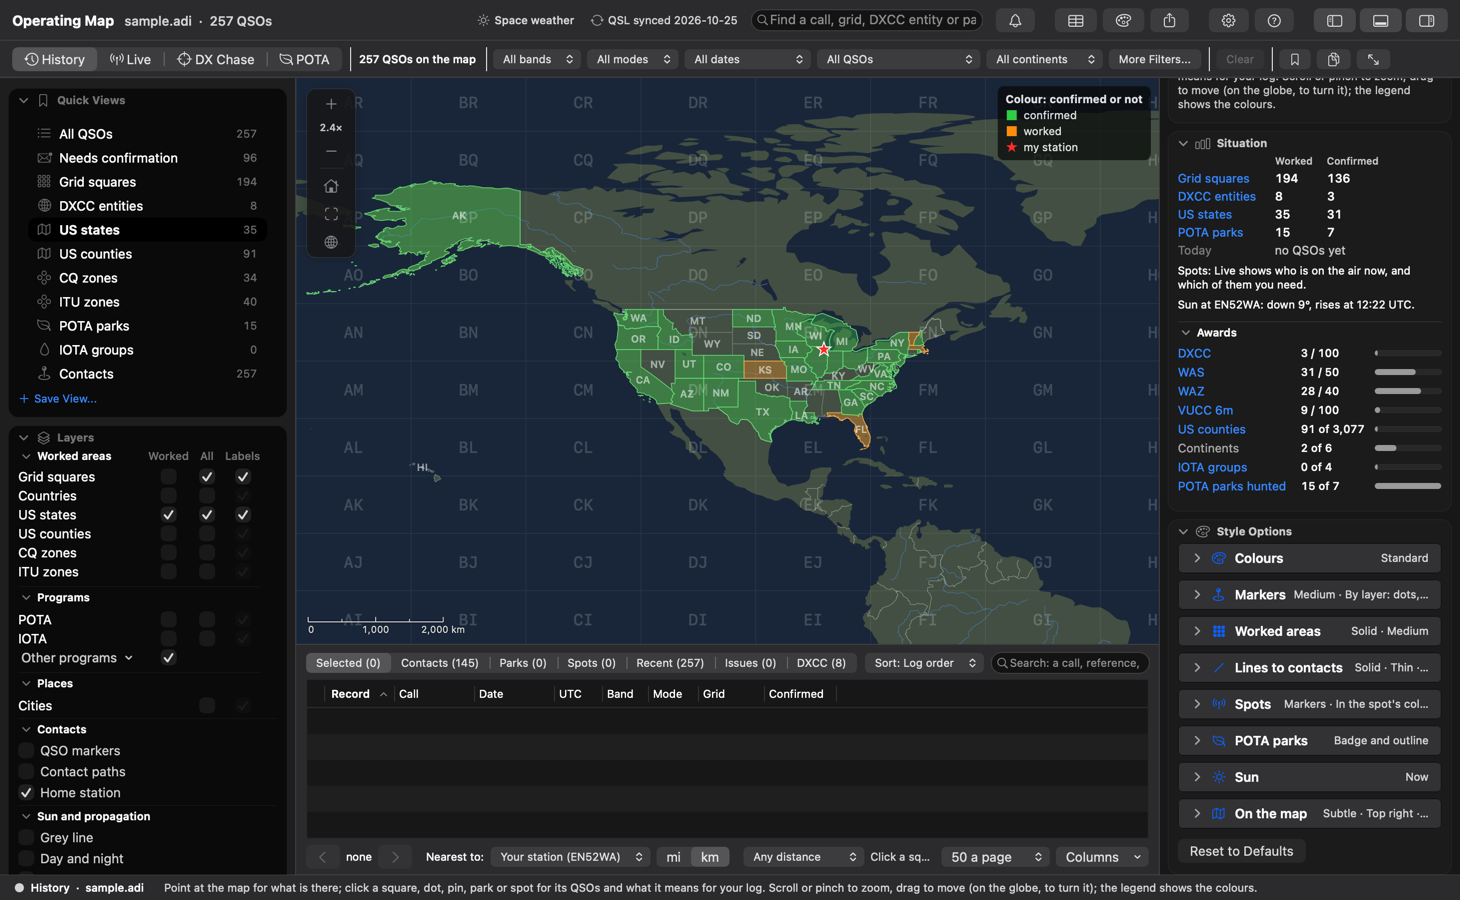
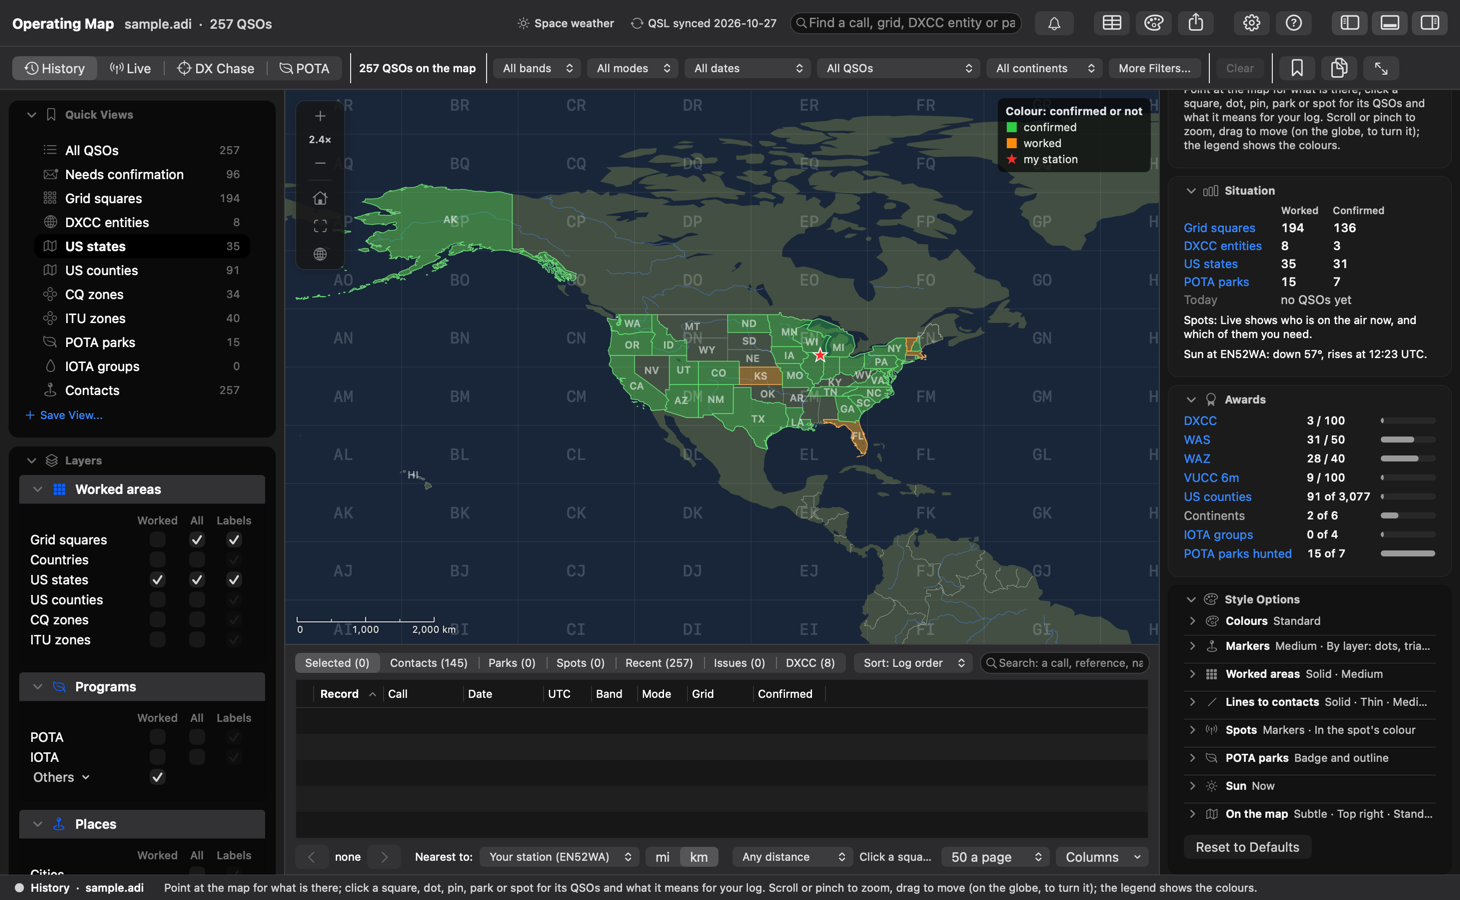
Release 1.7.0
ADIF 3.1.8 and checks against any ADIF version from 3.0.2, uploads to
World Radio League, HRDLog.net and HamQTH, the Spots layer, window and
movable cards of the Map, and a sectioned ADIF Lint menu. Version 1.7.0;
the changelog dated; every documentation screenshot taken again with the
new Map.

diff --git a/src/plugin/ADIFLint.mm b/src/plugin/ADIFLint.mm
@@ -83,7 +83,7 @@
 #include <vector>
 
 #ifndef ADIFLINT_VERSION
-#define ADIFLINT_VERSION "1.6.0"
+#define ADIFLINT_VERSION "1.7.0"
 #endif
 
 static const char kPluginName[] = "ADIF Lint";

diff --git a/CHANGELOG.md b/CHANGELOG.md
@@ -9,6 +9,8 @@ Versions before 0.8.0 were development builds and were not published.
 
 ## [Unreleased]
 
+## [1.7.0] - 2026-10-26
+
 ### Added
 
 - **ADIF 3.1.8** (2026-10-12): submode JTTY, the SKCC contest IDs (SKCC-SKS, SKCC-SKSA,
@@ -901,7 +903,8 @@ First public release.
 - **Fix Lengths**, as one undo step, and **Count Lengths in Characters**.
 - The `adiflint` command-line tool.
 
-[Unreleased]: https://github.com/ssamjung2/Nextpad_plus_plus_ADIFLint/compare/v1.6.0...HEAD
+[Unreleased]: https://github.com/ssamjung2/Nextpad_plus_plus_ADIFLint/compare/v1.7.0...HEAD
+[1.7.0]: https://github.com/ssamjung2/Nextpad_plus_plus_ADIFLint/compare/v1.6.0...v1.7.0
 [1.6.0]: https://github.com/ssamjung2/Nextpad_plus_plus_ADIFLint/compare/v1.5.0...v1.6.0
 [1.5.0]: https://github.com/ssamjung2/Nextpad_plus_plus_ADIFLint/compare/v1.4.1...v1.5.0
 [1.4.1]: https://github.com/ssamjung2/Nextpad_plus_plus_ADIFLint/compare/v1.4.0...v1.4.1
